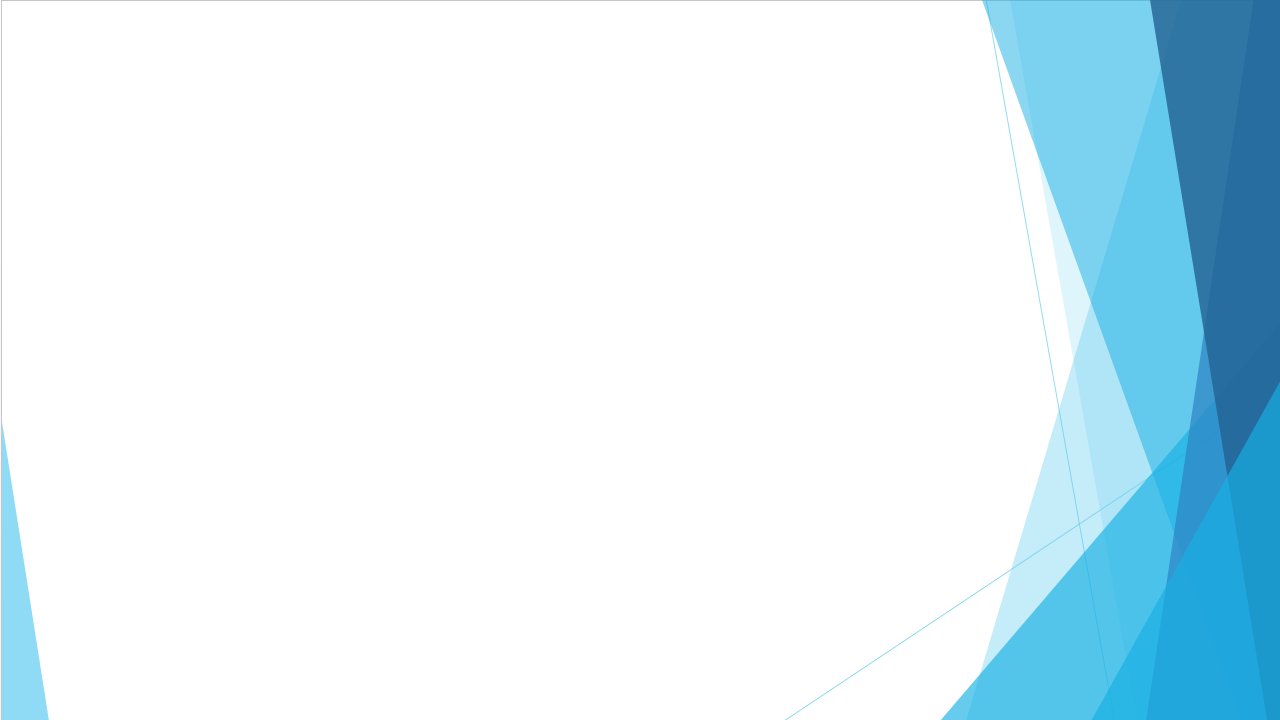
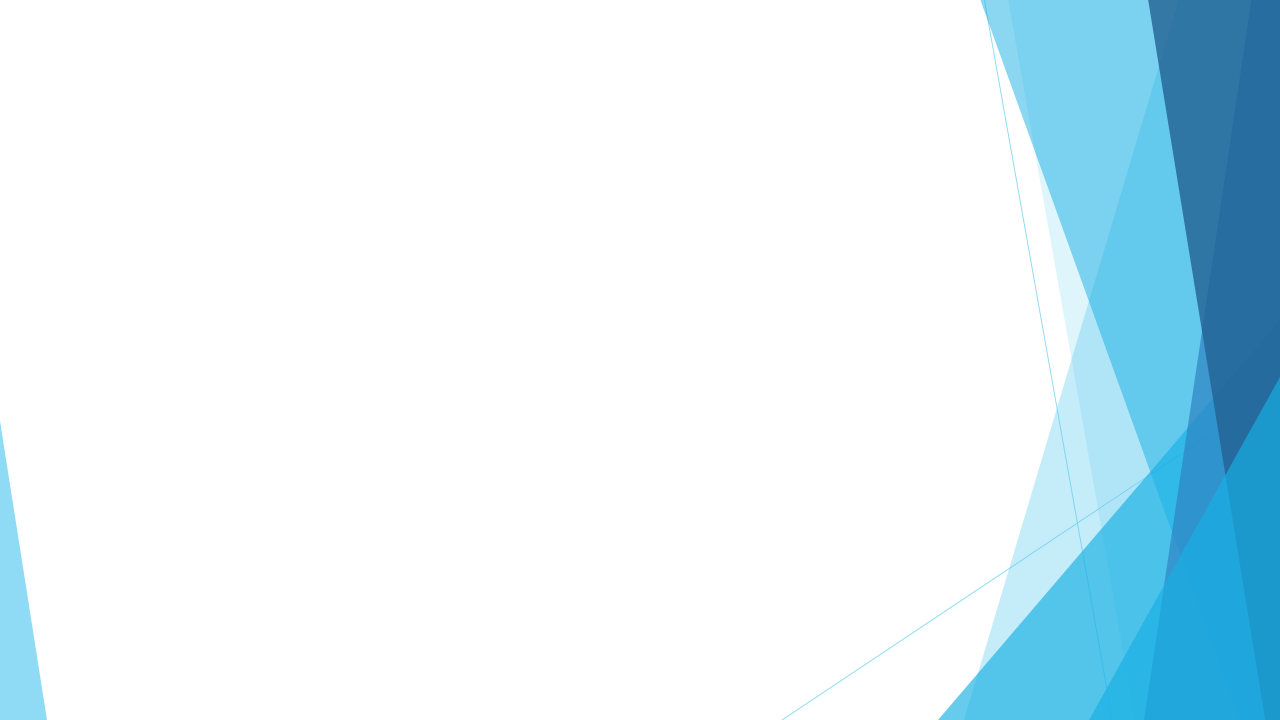
Create ISlide interface and basic title slide. Pull out common slide stuff into a Common static class. Add next slide/prev slide functionality. Clean up some of the code in Program.cs. A couple of test slides.

diff --git a/presentation/Program.cs b/presentation/Program.cs
@@ -12,18 +12,6 @@ namespace Presentation
 
         public static bool RunPresentation = true;
 
-        public static BMFont Font24, Font32, Font48, Font54, Font72;
-
-        private static VAO<Vector3, Vector2> title;
-        private static VAO<Vector3, Vector2> subtitle;
-
-        private static VAO backgroundQuad;
-        private static Texture backgroundTexture;
-
-        private static Vector3 titleColor = new Vector3(95 / 255f, 203 / 255f, 239 / 255f);
-        private static Vector3 subtitleColor = new Vector3(0.5f, 0.5f, 0.5f);
-        private static Vector3 textColor = new Vector3(0, 0, 0);
-
         static void Main(string[] args)
         {
             // create a window using SDL and create a valid OpenGL context
@@ -41,18 +29,14 @@ namespace Presentation
             // initialize the shaders that we require
             Shaders.InitShaders(Shaders.ShaderVersion.GLSL120);
 
-            Font24 = BMFont.LoadFont("media/font24.fnt");
-            Font32 = BMFont.LoadFont("media/font32.fnt");
-            Font48 = BMFont.LoadFont("media/font48.fnt");
-            Font54 = BMFont.LoadFont("media/font54.fnt");
-            Font72 = BMFont.LoadFont("media/font72.fnt");
+            // initialize commonly used object in slides such as fonts, background textures, etc
+            Slides.Common.Init();
 
-            title = Font72.CreateString(Shaders.FontShader, "2015 Presentation", BMFont.Justification.Right);
-            subtitle = Font32.CreateString(Shaders.FontShader, "Chatting about cool things in electrical engineering!", BMFont.Justification.Right);
-            backgroundQuad = Utilities.CreateQuad(Shaders.SimpleTexturedShader);
-            backgroundTexture = new Texture("media/background.png");
-
+            // force a reshape to generate the UI projection matrix
             Window.OnReshape(Program.Width, Program.Height);
+
+            // set to slide 0
+            SetSlide(0);
 
             // the main game loop
             while (RunPresentation)
@@ -77,38 +61,38 @@ namespace Presentation
             Gl.Viewport(0, 0, Program.Width, Program.Height);
             Gl.Clear(ClearBufferMask.ColorBufferBit | ClearBufferMask.DepthBufferBit);
 
-            Shaders.SimpleTexturedShader.Use();
-            Shaders.SimpleTexturedShader["projectionMatrix"].SetValue(Matrix4.Identity);
-            Shaders.SimpleTexturedShader["viewMatrix"].SetValue(Matrix4.Identity);
-            Shaders.SimpleTexturedShader["modelMatrix"].SetValue(Matrix4.Identity);
-            Gl.BindTexture(backgroundTexture);
-            backgroundQuad.Draw();
-
-            DrawString(Font72, title, new Vector2(980, 360), titleColor);
-            DrawString(Font32, subtitle, new Vector2(980, 320), subtitleColor);
+            // render the current slide if it exists
+            if (currentSlide != null) currentSlide.Draw();
 
             // swap the buffers
             Window.SwapBuffers();
         }
 
-        public static void DrawString(BMFont font, VAO<Vector3, Vector2> text, Vector2 position, Vector3 color)
+        private static int slideNumber = 0;
+        private static Slides.ISlide currentSlide;
+
+        public static void SetSlide(int slide)
         {
-            Shaders.FontShader.Use();
-            //Shaders.FontShader["uiProjectionMatrix"].SetValue(uiProjectionMatrix);
-            Shaders.FontShader["position"].SetValue(position);
-            Shaders.FontShader["color"].SetValue(color);
-            Gl.BindTexture(font.FontTexture);
-            text.Draw();
+            if (slideNumber == 0)
+            {
+                currentSlide = new Slides.TitleSlide("2015 Presentation", "Exporation of cool electrical engineering topics.");
+            }
+            else if (slideNumber == 1)
+            {
+                currentSlide = new Slides.TitleSlide("Slide 2", "Testing navigation.");
+            }
         }
 
         public static void NextSlide()
         {
-            Console.WriteLine("Next slide!");
+            slideNumber++;
+            SetSlide(slideNumber);
         }
 
         public static void PrevSlide()
         {
-            Console.WriteLine("Prev slide!");
+            slideNumber = Math.Max(0, slideNumber - 1);
+            SetSlide(slideNumber);
         }
     }
 }

diff --git a/presentation/Slides/Common.cs b/presentation/Slides/Common.cs
@@ -1,0 +1,54 @@
+using System;
+
+using OpenGL;
+
+namespace Presentation.Slides
+{
+    public interface ISlide
+    {
+        void Draw();
+    }
+
+    public static class Common
+    {
+        public static Vector3 TitleColor = new Vector3(95 / 255f, 203 / 255f, 239 / 255f);
+        public static Vector3 SubtitleColor = new Vector3(0.5f, 0.5f, 0.5f);
+        public static Vector3 TextColor = new Vector3(0, 0, 0);
+
+        private static VAO backgroundQuad;
+        private static Texture backgroundTexture;
+
+        public static BMFont Font24, Font32, Font48, Font54, Font72;
+
+        public static void Init()
+        {
+            Font24 = BMFont.LoadFont("media/font24.fnt");
+            Font32 = BMFont.LoadFont("media/font32.fnt");
+            Font48 = BMFont.LoadFont("media/font48.fnt");
+            Font54 = BMFont.LoadFont("media/font54.fnt");
+            Font72 = BMFont.LoadFont("media/font72.fnt");
+
+            backgroundQuad = Utilities.CreateQuad(Shaders.SimpleTexturedShader);
+            backgroundTexture = new Texture("media/background.png");
+        }
+
+        public static void DrawBackground()
+        {
+            Shaders.SimpleTexturedShader.Use();
+            Shaders.SimpleTexturedShader["projectionMatrix"].SetValue(Matrix4.Identity);
+            Shaders.SimpleTexturedShader["viewMatrix"].SetValue(Matrix4.Identity);
+            Shaders.SimpleTexturedShader["modelMatrix"].SetValue(Matrix4.Identity);
+            Gl.BindTexture(backgroundTexture);
+            backgroundQuad.Draw();
+        }
+
+        public static void DrawString(BMFont font, VAO<Vector3, Vector2> text, Vector2 position, Vector3 color)
+        {
+            Shaders.FontShader.Use();
+            Shaders.FontShader["position"].SetValue(position);
+            Shaders.FontShader["color"].SetValue(color);
+            Gl.BindTexture(font.FontTexture);
+            text.Draw();
+        }
+    }
+}

diff --git a/presentation/Slides/TitleSlide.cs b/presentation/Slides/TitleSlide.cs
@@ -1,0 +1,26 @@
+using System;
+
+using OpenGL;
+
+namespace Presentation.Slides
+{
+    public class TitleSlide : ISlide
+    {
+        private VAO<Vector3, Vector2> title;
+        private VAO<Vector3, Vector2> subtitle;
+
+        public TitleSlide(string titleText, string subtitleText)
+        {
+            title = Common.Font72.CreateString(Shaders.FontShader, titleText, BMFont.Justification.Right);
+            subtitle = Common.Font32.CreateString(Shaders.FontShader, subtitleText, BMFont.Justification.Right);
+        }
+
+        public void Draw()
+        {
+            Common.DrawBackground();
+
+            Common.DrawString(Common.Font72, title, new Vector2(980, 360), Common.TitleColor);
+            Common.DrawString(Common.Font32, subtitle, new Vector2(980, 320), Common.SubtitleColor);
+        }
+    }
+}
